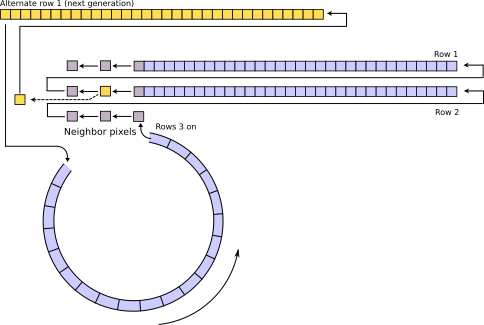
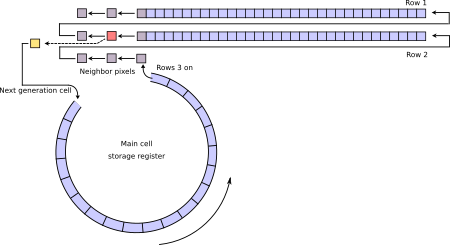
modified:   README.md

Changed region(s): [[0.0, 0.0, 1.0, 1.0], [0.2178, 0.6286, 0.3733, 0.6571], [0.2489, 0.5714, 0.3422, 0.6]]

diff --git a/README.md b/README.md
@@ -32,13 +32,13 @@ There are many clever techniques to achieve higher GoL framerates, but the limit
 
 The entire game is implemented as two small shift registers for rows 1 and 2 and a large one which holds the remaining rows. Rows 1 and 2 are deliberately 2 pixels short, and have two separate registers added in front of them. This enables direct access to all neighbor cells of cell (1,1) and it is possible to determine the faith of this cell in the next generation.
 
-This future cell is shifted in a separate row 1 that holds future cells and the original cell keeps getting shifted to old row 1 to be used for remaining calculations. The alternate row 1 then gets shifted into the large shift register and the whole process repeats indefinitely. There are probably better ways to do this, but this one seemed simple enough to use. 
+This future cell is shifted into the large shift register and the original cell keeps getting shifted to old row 1 to be used for remaining calculations. The whole process then repeats indefinitely. There are probably better ways to do this, but this one seemed simple enough to use. 
 
 ### Logic
 
 Rows are implemented by using *altshift_taps* component from Intel/Altera, providing a very simple shift register interface (clock, in, out).
 
-The entire game logic can be simplified to one line:
+The entire game logic can be simplified to **one line**:
 
    ```verilog
    output_pixel <= (neighbor_count | r2p2) == 4'd3;
@@ -57,15 +57,14 @@ Implementing random seed gives you the idea just how much raw bandwidth flows to
    end   
 ```
 
-That's it! Interestig application note on LFSRs can be found [here](https://www.xilinx.com/support/documentation/application_notes/xapp052.pdf).
+That's it! Interesting application note on LFSRs can be found [here](https://www.xilinx.com/support/documentation/application_notes/xapp052.pdf).
 
 
 ## Game of Life Trivia
 
-The fascinating thing is that it is (Turing complete)[https://en.wikipedia.org/wiki/Turing_completeness]  and it could, in theory, calculate anything your computer could. This is how one of the possible implementations looks like [[2]](http://rendell-attic.org/gol/tm.htm):
+The fascinating thing is that it is [Turing complete](https://en.wikipedia.org/wiki/Turing_completeness)  and it could, in theory, calculate anything your computer could. [This is how](http://rendell-attic.org/gol/tm.htm) one of the possible implementations looks like. Also, some cool feats like this amazing digital clock [4] can be constructed.
 
-
-![Turing_Machine](img/250px-Turingmachine.png)
+![Turing_Machine](img/clock.gif)
 
 ## Installation
 
@@ -99,12 +98,12 @@ A. Try switching the aspect ratio from OSD (press F12 to access it).
 
 ##### Q. Memory files are HUGE
 
-A. True, and very inefficient but they compress well as their entropy is low. The idea was to implement a RLE encoding format, but there is an issue with ioctl_wait that needs to be addressed before or a different approach to file transfer taken (SD card vhd image and transfer in chunks).
+A. They are, indeed, very inefficient but they compress well as their entropy is low. The idea was to implement a RLE encoding format, but there is an issue with ioctl_wait that needs to be addressed before or a different approach to file transfer taken (SD card vhd image and transfer in chunks).
 
 ## Known issues and missing features
 
 - Board wraps around
-- RLE file format should be implemented
+- RLE file format should be implemented instead of the current crappy one
 
 ## License
 
@@ -115,3 +114,4 @@ This software is licensed under the MIT license.
   1. [Conway's Game of Life, Wikipedia](https://en.wikipedia.org/wiki/Conway%27s_Game_of_Life)   accessed 27.04.2020.
   2. [Game of Life Turing machine](http://rendell-attic.org/gol/tm.htm) accessed 27.04.2020.   
   3. Gardner, Martin (October 1970). ["Mathematical Games - The Fantastic Combinations of John Conway's New Solitaire Game 'Life'" (PDF)](https://web.stanford.edu/class/sts145/Library/life.pdf). Scientific American (223): 120–123
+  4. [Digital clock in Game of Life](https://codegolf.stackexchange.com/questions/88783/build-a-digital-clock-in-conways-game-of-life), accessed 27.04.2020.
